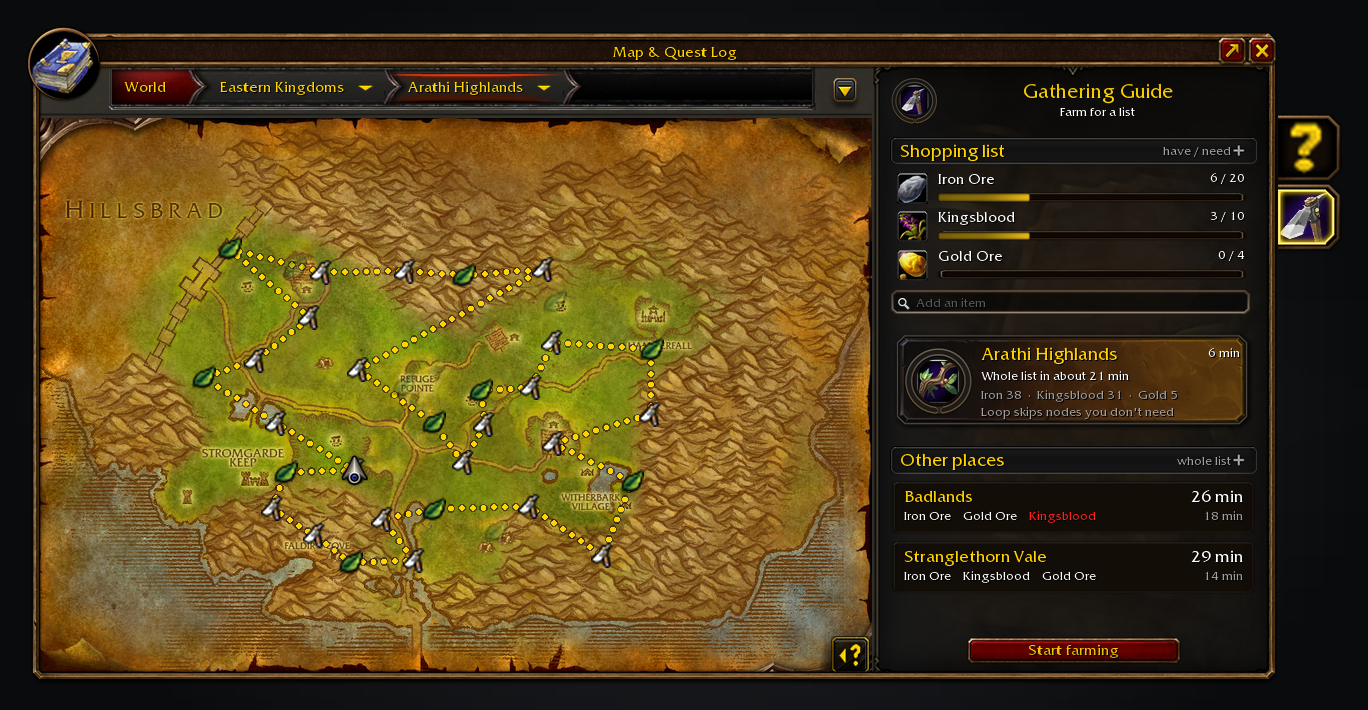
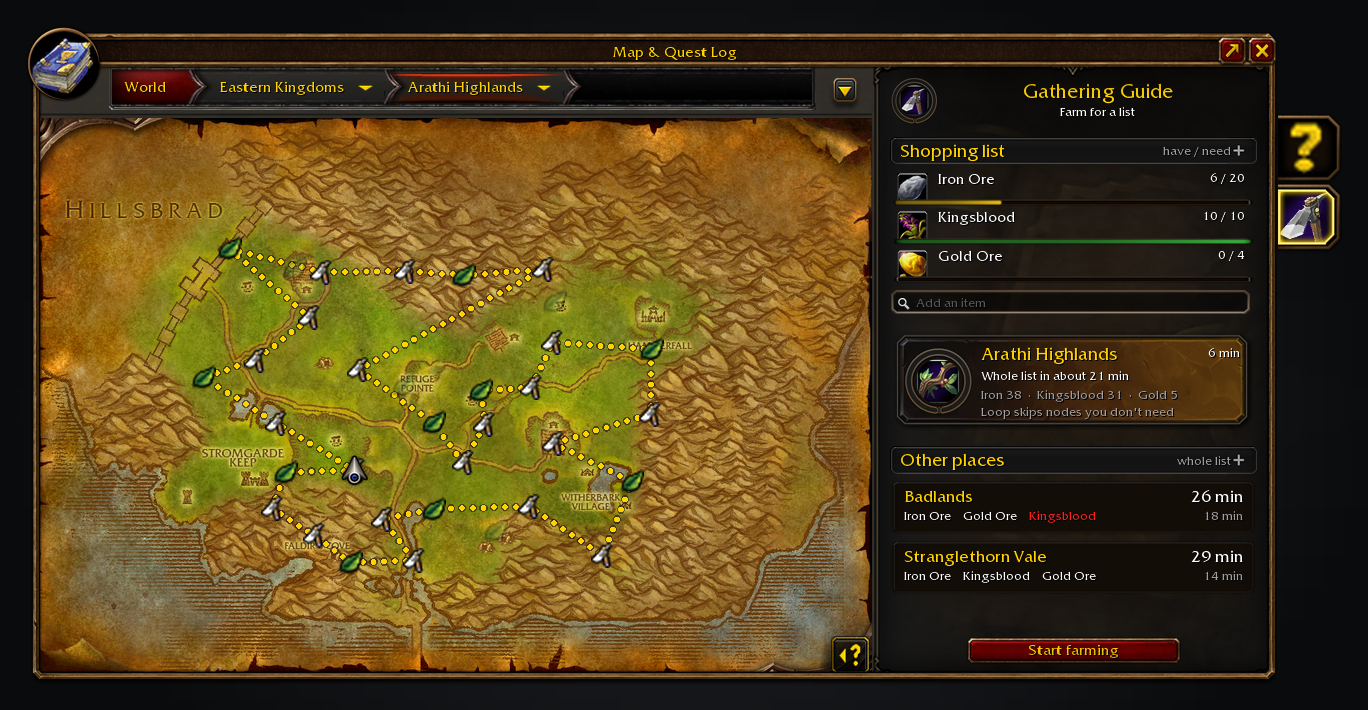
test(ui): match gathering mock bar geometry to runtime
Show the prior bare four-unit fill and the corrected trough for empty, partial and complete items.

diff --git a/docs/mockups/gathering.py b/docs/mockups/gathering.py
@@ -209,7 +209,7 @@ def panel(canvas, x, y, w, h):
 
 WANT = [  # item icon, name, have, need, source node, nodes on the loop
     ("INV_Ore_Iron_01", "Iron Ore", 6, 20, "Iron Deposit", 38),
-    ("INV_Misc_Herb_03", "Kingsblood", 3, 10, "Kingsblood", 31),
+    ("INV_Misc_Herb_03", "Kingsblood", 10, 10, "Kingsblood", 31),
     ("INV_Ore_Gold_01", "Gold Ore", 0, 4, "Gold Vein", 5),
 ]
 
@@ -245,7 +245,7 @@ def panel_list(canvas, x, y, w, h):
         canvas.draw(ui.texture(f"Interface\\Icons\\{icon}.blp"), cx + 6, ry + 2, 26, 26)
         canvas.text(cx + 40, ry + 1, name, NORMAL)
         canvas.text(cx, ry + 1, f"{have} / {need}", SMALL, WHITE, justify="RIGHT", width=cw - 10)
-        bar(canvas, cx + 40, ry + 19, cw - 50, 7, have / need)
+        bar(canvas, cx + 4, ry + 25, cw - 8, 4, have / need)
         ry += 32
     wowmock.search_box(canvas, cx + 6, ry + 4, cw - 12, instructions="Add an item")
 
